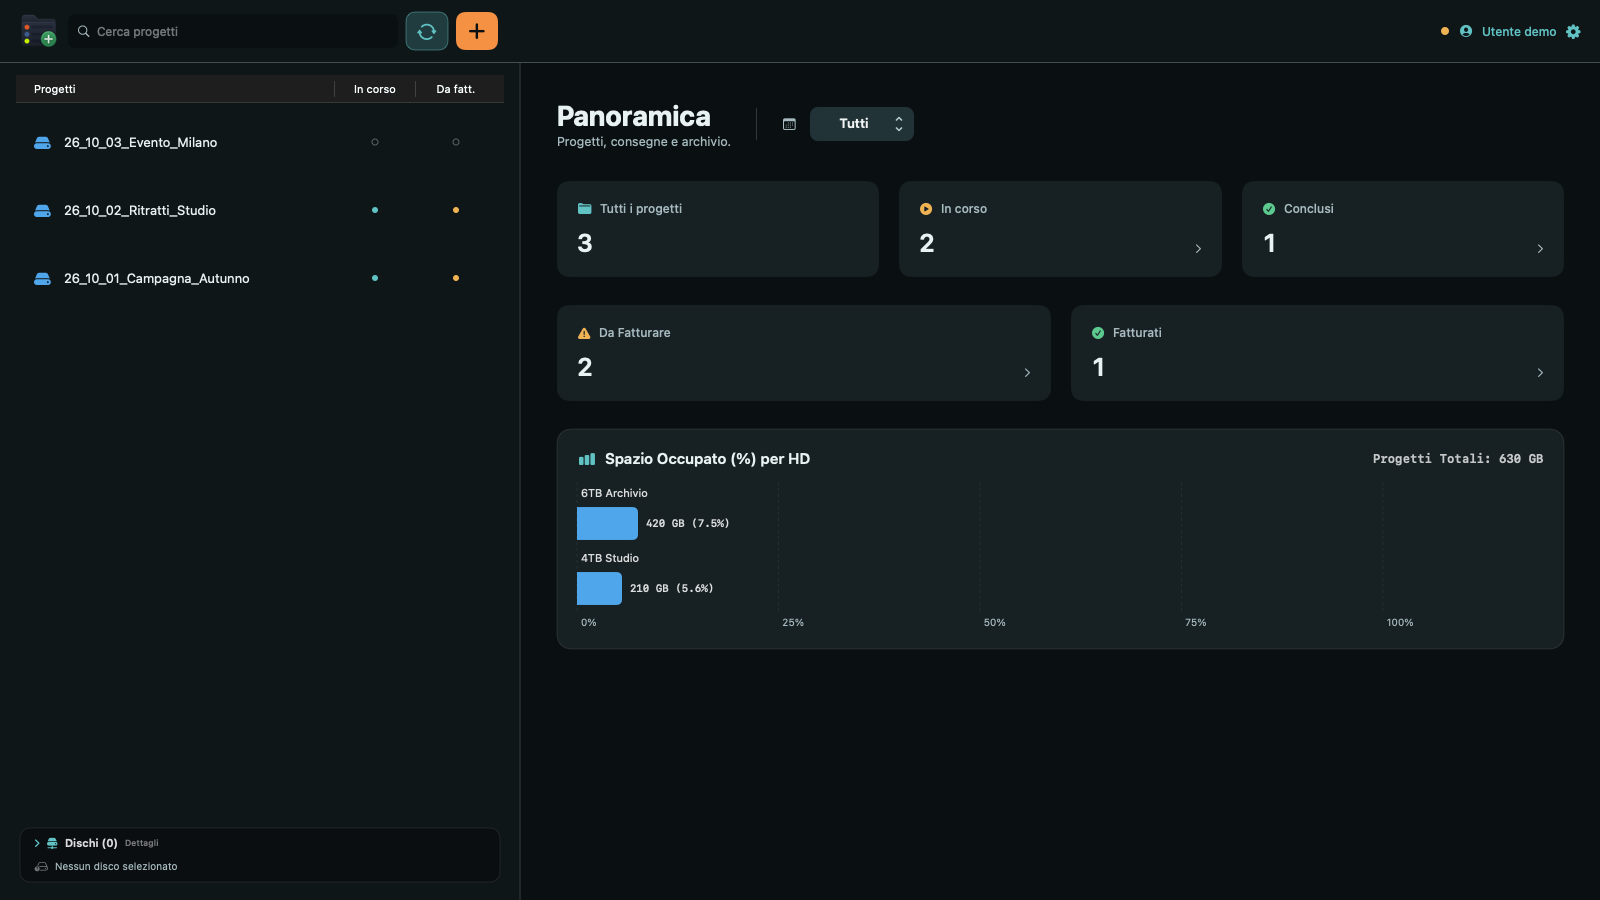
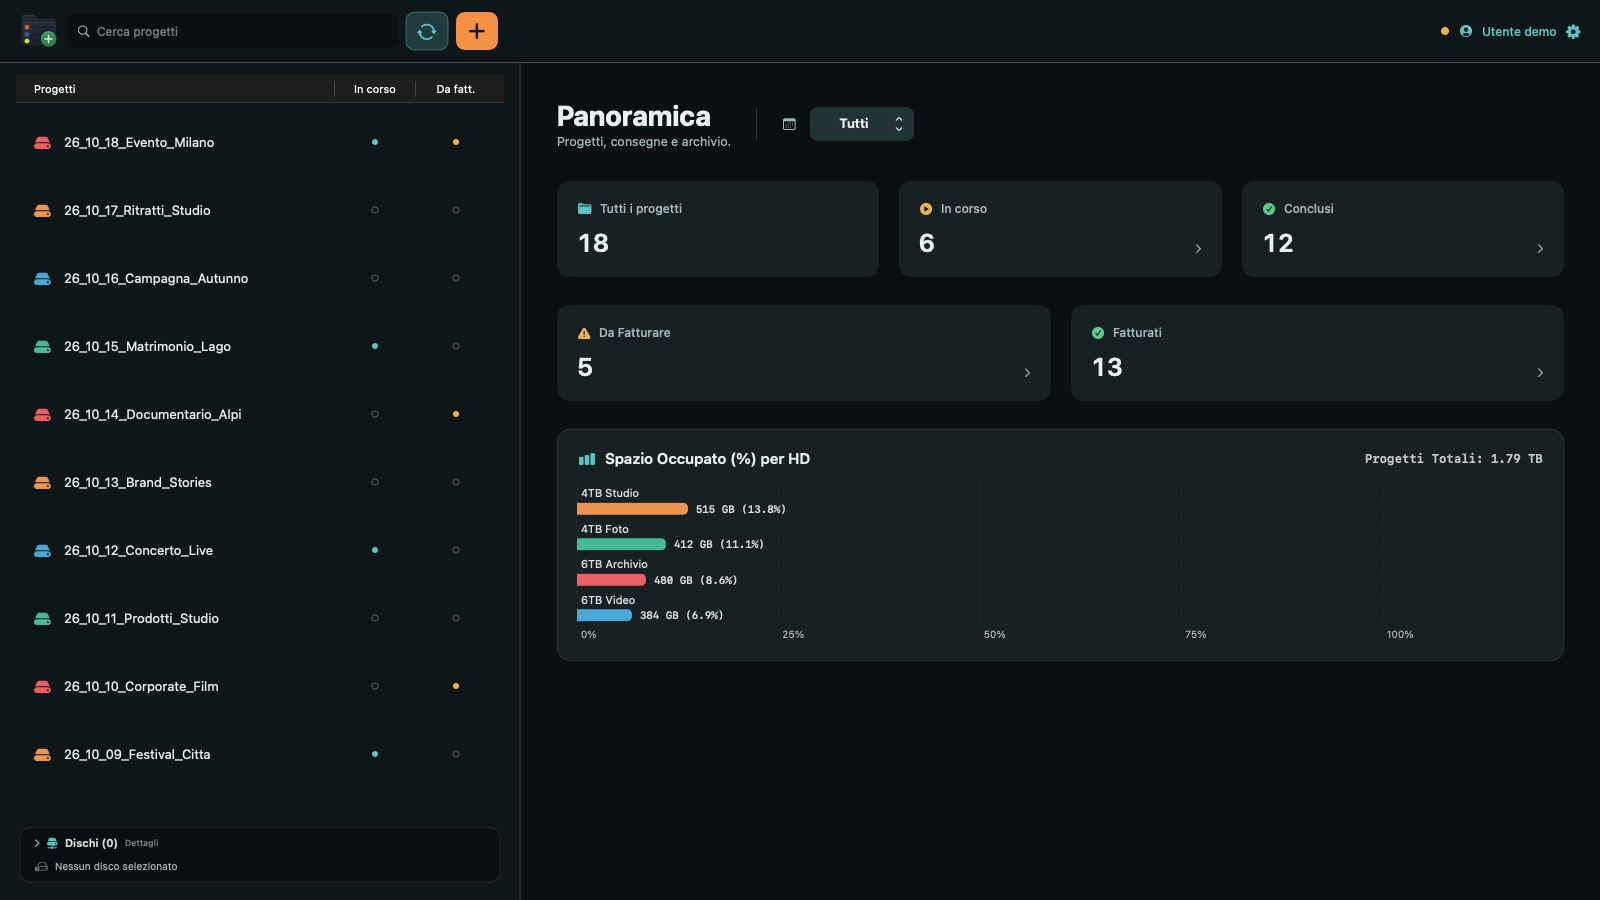
Simplify user guide and show a larger demo catalog

diff --git a/README.md b/README.md
@@ -1,104 +1,62 @@
-<img src="Sources/FolderFlow/Resources/app_icon.png" width="72" alt="Logo FolderFlow">
+<img src="Sources/FolderFlow/Resources/app_icon.png" width="80" alt="FolderFlow">
 
 # FolderFlow
 
-**Progetti fotografici e video, organizzati fra i tuoi hard disk.**
+**Tutti i tuoi lavori, anche quando gli hard disk non sono con te.**
 
-Un catalogo per ritrovare i lavori, seguire consegne e fatturazione e consultare l'archivio anche quando i dischi non sono collegati. App nativa per macOS, realizzata da [Unshaped Studio](https://unshapedstudio.com/).
+Organizza progetti fotografici e video, ritrova le cartelle e tieni sotto controllo consegne e fatturazione. Per macOS, su Mac con Apple Silicon e Intel.
 
-## Scarica e installa
+## Scarica FolderFlow
 
-La versione corrente è **5.1.3, anteprima di sviluppo**.
+Il download per macOS è in preparazione. L'app verrà fornita pronta da aprire, senza doverla compilare.
 
-- **[Scarica i sorgenti](https://github.com/marcovernetto-lgtm/FolderFlow/archive/refs/tags/v5.1.3.zip)** per compilarla sul tuo Mac.
-- **[Versioni e note di rilascio](https://github.com/marcovernetto-lgtm/FolderFlow/releases)**.
-- **[Compilazione, firma e creazione degli installer](docs/BUILD.md)**.
+## Il tuo archivio a colpo d'occhio
 
-La build firmata durante lo sviluppo ha un profilo temporaneo legato ai Mac registrati e non è notarizzata. Il DMG e lo ZIP restano nella release in bozza: non sono ancora un download pubblico pronto per qualsiasi Mac. Per provarla su un altro computer, apri il progetto in Xcode e scegli il tuo team Apple seguendo la guida.
+![Panoramica di FolderFlow con progetti, stati e spazio sui dischi](docs/screenshots/01-panoramica.png)
 
-## Il tuo archivio, a colpo d'occhio
+*Tutti i progetti, gli account e i dati mostrati nelle immagini sono dimostrativi.*
 
-La panoramica mostra quanti lavori sono in corso, conclusi, da fatturare e fatturati. Il grafico ordina i dischi per percentuale occupata dai progetti del catalogo.
+La panoramica riunisce lavori in corso, conclusi, da fatturare e fatturati. Il grafico mostra quanto spazio occupano i progetti su ogni hard disk.
 
-![Panoramica con lista dei progetti, stati e spazio sui dischi](docs/screenshots/01-panoramica.png)
+### 1. Scegli i tuoi dischi
 
-*Le immagini di questa guida usano dati dimostrativi.*
+Apri le impostazioni dall'ingranaggio in alto a destra e seleziona gli hard disk da usare. FolderFlow cerca i tuoi progetti e li raccoglie nel catalogo. Puoi assegnare un colore a ogni disco per riconoscerlo subito.
 
-### Ritrova un progetto
+### 2. Ritrova e gestisci i lavori
 
-- Cerca per nome, percorso o disco nella barra in alto.
-- Seleziona un progetto e usa le frecce su e giù per spostarti nell'elenco.
-- Filtra i lavori dai pulsanti dei dischi in basso a sinistra. Compaiono solo i dischi collegati e selezionati per il monitoraggio.
-- Scorri sul selettore dell'anno per cambiare periodo. All'apertura parte da **Tutti**; un nuovo anno compare quando il catalogo contiene il primo progetto di quell'anno.
+Usa la ricerca per trovare un progetto. Filtra per disco o anno e spostati nell'elenco con le frecce della tastiera. Nel dettaglio puoi aggiungere note, impostare una scadenza e aggiornare gli stati.
 
-### Leggi gli stati senza aprire ogni lavoro
-
-| Colonna nella lista | Pallino pieno | Cerchietto vuoto |
+| Pallino nella lista | Quando è pieno | Quando è vuoto |
 | --- | --- | --- |
-| **In corso** | Azzurro: lavoro in corso | Lavoro concluso |
-| **Da fatt.** | Ambra: da fatturare | Già fatturato |
+| **In corso** | Il lavoro è in lavorazione | Il lavoro è concluso |
+| **Da fatt.** | Il lavoro è da fatturare | Il lavoro è già fatturato |
 
-Nel dettaglio puoi cambiare lavorazione e fatturazione, impostare una scadenza, aggiungere note e aprire la cartella nel Finder.
+### 3. Crea un nuovo progetto
 
-### Crea e aggiorna i lavori
+Premi il **+ arancione**, scegli il disco e inserisci il nome. Puoi personalizzare il formato dei nomi nelle impostazioni. Il pulsante azzurro aggiorna l'elenco dai dischi collegati.
 
-Il pulsante arancione **+** crea un nuovo progetto sul disco scelto. Prima della creazione vedi il nome della cartella e i dischi disponibili. Il formato originale è `{AA}_{MM}_{NN}_{Nome}`: puoi cambiarlo con i formati pronti o con un formato personalizzato in **Impostazioni → Progetti**.
+## Dal fisso al portatile
 
-Il pulsante azzurro accanto al più aggiorna il catalogo dai dischi collegati. La stessa nomenclatura viene usata per creare e riconoscere i progetti; cambiarla non rinomina le cartelle già esistenti.
+Accedi con Google oppure crea un account con email e password. Ogni persona usa il proprio account e i propri cataloghi.
 
-## Stesso account, cataloghi su più Mac
+![Accesso a FolderFlow](docs/screenshots/02-accesso.png)
 
-Puoi usare l'app localmente oppure accedere con Google o email e password. Ogni account ha il proprio spazio per cataloghi e preferenze.
+Puoi consultare il catalogo da un altro Mac anche senza avere con te gli hard disk. Le modifiche vengono salvate anche offline e sincronizzate quando torna la connessione.
 
-![Finestra di accesso con Google o email](docs/screenshots/02-accesso.png)
+**Foto e video restano sui tuoi dischi.** Online vengono salvate le informazioni del catalogo: nomi, percorsi, dimensioni, elenco dei contenuti, stati e note.
 
-Le modifiche al catalogo vengono salvate sul Mac anche offline e inviate al ritorno della connessione. Su un altro Mac puoi consultare i progetti senza collegare gli HD originali. Una modifica concorrente allo stesso elemento viene mostrata come conflitto: scegli quale versione mantenere.
+## Cataloghi e copie di sicurezza
 
-**Foto e video restano sugli hard disk.** Il cloud riceve cataloghi e metadati, compresi nomi, percorsi, dimensioni, contenuti delle cartelle, stati e note. Non trasferisce i file multimediali.
+Dal profilo, apri la scheda **Cataloghi** per scegliere un archivio, crearne uno oppure importare quello che usavi già.
 
-### Profilo, impostazioni e cataloghi
+![Gestione dei cataloghi con un account dimostrativo](docs/screenshots/03-cataloghi.png)
 
-Clicca sul nome del profilo o sull'ingranaggio in alto a destra. Nella scheda **Cataloghi** puoi cambiare archivio, crearne uno nuovo, importare o esportare un JSON e accedere alle copie di sicurezza.
+Per recuperare un catalogo precedente, premi **Importa da file…**, scegli il file esportato da FolderFlow e controlla l'anteprima prima di confermare.
 
-![Gestione dei cataloghi e backup automatici](docs/screenshots/03-cataloghi.png)
+![Anteprima di importazione di un catalogo dimostrativo](docs/screenshots/04-importazione.png)
 
-I colori degli HD e la nomenclatura seguono il catalogo. Le preferenze di avvio all'accesso e barra dei menu seguono l'account. Percorsi, dischi monitorati e autorizzazioni macOS restano invece specifici di ogni computer.
-
-### Importa il catalogo che usi già
-
-1. Esporta il JSON dalla versione precedente di FolderFlow.
-2. Apri **Impostazioni → Cataloghi → Importa da file…**.
-3. Controlla l'anteprima con numero di progetti e stati.
-4. Aggiungi un nuovo catalogo oppure sostituisci quello selezionato. Prima di una sostituzione l'app crea una copia locale di recupero.
-
-![Anteprima di importazione con scelta fra aggiunta e sostituzione](docs/screenshots/04-importazione.png)
-
-### Backup automatici
-
-Con l'account connesso, l'app crea in background una copia online dei cataloghi a ogni avvio. Se parte offline, riprova quando torna la connessione durante l'esecuzione dell'app.
-
-Le copie vengono conservate per **60 giorni**. La pulizia avviene mentre FolderFlow è aperta e online e riguarda soltanto le copie scadute: **non elimina cataloghi o progetti**. Puoi scegliere una copia nella scheda Cataloghi e ripristinarla dopo l'anteprima. Le copie locali di recupero sono nelle operazioni avanzate.
-
-## Requisiti e stato delle verifiche
-
-- macOS **13 o successivo**.
-- Build universale per **Apple Silicon e Intel**.
-- Per compilare: Xcode e un team Apple per la firma; dettagli nella [guida di sviluppo](docs/BUILD.md).
-
-Sono stati eseguiti 45 test Swift e 7 test delle regole Firestore. Le verifiche con dati isolati coprono importazione, uso offline, conflitti, separazione degli account e backup; l'interfaccia è stata renderizzata a finestra larga e compatta. Sul Mac di sviluppo sono stati verificati accesso Google, catalogo locale/cloud e backup online con checksum.
-
-Il collaudo reale fra fisso e portatile e la distribuzione su Mac diversi restano da completare. Una build firmata per lo sviluppo non dimostra la compatibilità di un installer pubblico.
-
-## Per chi sviluppa
-
-Sorgenti SwiftUI in `Sources/FolderFlow`, test in `Tests`, progetto Xcode e configurazione in radice. Il backend usa Firebase Authentication e Firestore; regole e test sono in [Backend](Backend/README.md).
-
-```sh
-swift test
-```
-
-La repository non contiene cataloghi personali, backup degli utenti, sessioni di accesso, chiavi private o certificati di firma. La configurazione client Firebase è pubblica e non concede accesso amministrativo al backend.
+Con l'account connesso, FolderFlow crea una copia online a ogni avvio. Le copie vengono conservate per **60 giorni**: la pulizia riguarda solo le vecchie copie di sicurezza, mai il catalogo originale.
 
 ---
 
-powered by [unshapedstudio.com](https://unshapedstudio.com/)
+Realizzata da [Unshaped Studio](https://unshapedstudio.com/).
